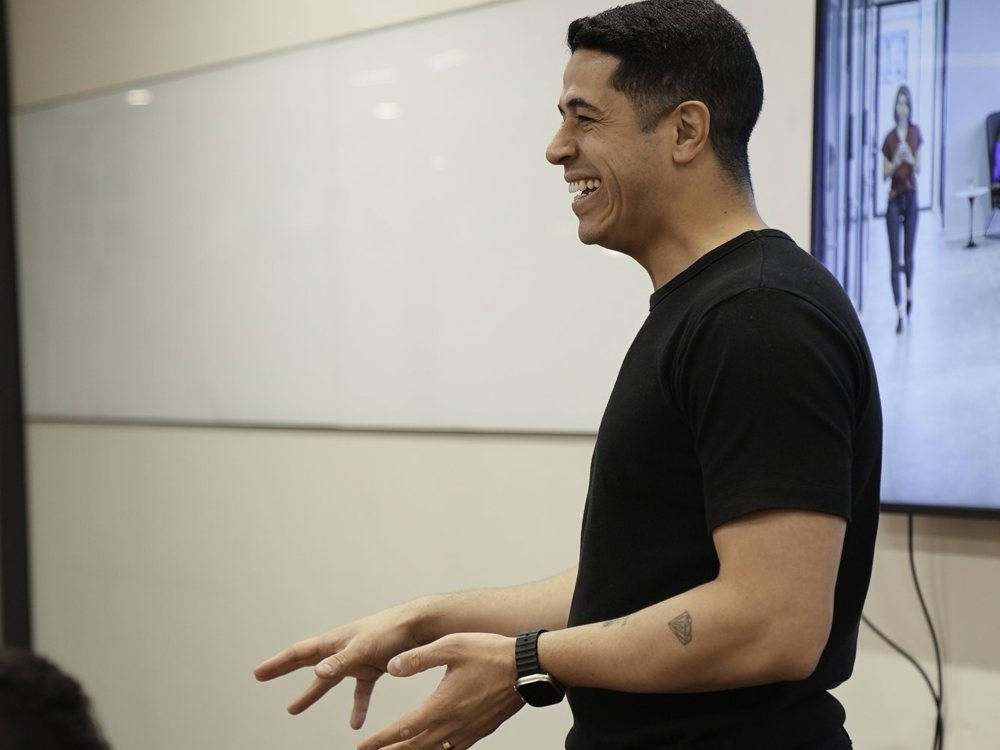
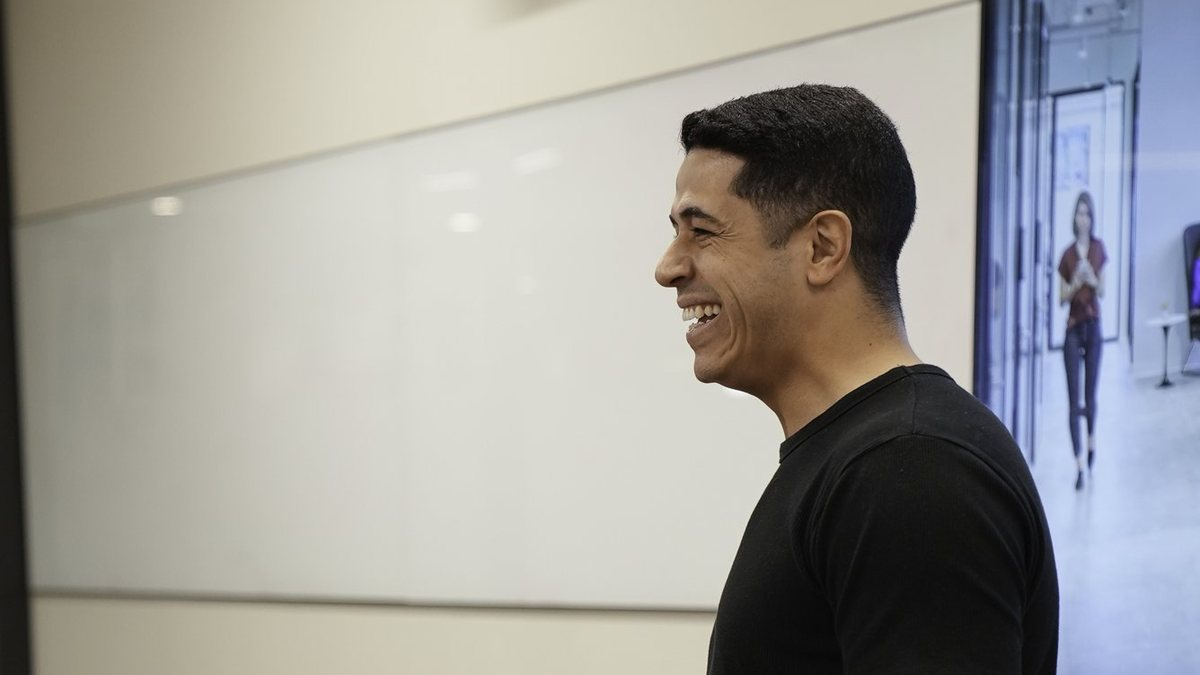
Decks: recorte das fotos do Henrique sem cortar a cabeça e com ele em destaque

diff --git a/apresentacao.html b/apresentacao.html
@@ -159,7 +159,7 @@
   .dcard .idx .pill { font-size: calc(0.95 * var(--u)); padding: calc(0.3 * var(--u)) calc(0.7 * var(--u)); font-weight: 600; letter-spacing: 0.04em; }
   .stackall .dcard .idx .pill { font-size: calc(0.72 * var(--u)); padding: calc(0.2 * var(--u)) calc(0.45 * var(--u)); }
   .dcard.has-img { padding-top: 0; grid-template-rows: minmax(0, 1fr) auto auto auto; }
-  .dcard .cimg { margin: 0 calc(-1.4 * var(--u)) calc(0.4 * var(--u)); min-height: 0; background: var(--navy-800) center / cover no-repeat; border-bottom: 1px solid var(--hair-gold); }
+  .dcard .cimg { margin: 0 calc(-1.4 * var(--u)) calc(0.4 * var(--u)); min-height: 0; background: var(--navy-800) center 22% / cover no-repeat; border-bottom: 1px solid var(--hair-gold); }
   .cards:has(.has-img) { max-height: 62cqh; height: 62cqh; }
   .dcard.has-img .t { align-self: start; }
   .cards:has(.has-img) .dcard .t { font-size: calc(1.25 * var(--u)); }
@@ -167,7 +167,7 @@
   .stackall .dcard .cimg { display: none; }
   .traj { display: grid; grid-template-columns: repeat(5, 1fr); gap: calc(1.2 * var(--u)); }
   .traj .tj { display: grid; gap: calc(0.5 * var(--u)); align-content: start; }
-  .traj .ph { height: 40cqh; border-radius: var(--radius); background: var(--navy-800) center / cover no-repeat; border: 1px solid var(--hair-gold); }
+  .traj .ph { aspect-ratio: 1 / 1; width: 100%; max-height: 44cqh; border-radius: var(--radius); background: var(--navy-800) center top / cover no-repeat; border: 1px solid var(--hair-gold); }
   .traj .k { font-family: var(--font-mono); font-size: calc(0.62 * var(--u)); letter-spacing: 0.2em; text-transform: uppercase; color: var(--gold-400); margin-top: calc(0.5 * var(--u)); }
   .traj .t { font-family: var(--font-display); font-size: calc(1.3 * var(--u)); font-weight: 600; line-height: 1.12; }
   .traj p { color: var(--mist); font-size: calc(0.85 * var(--u)); line-height: 1.4; margin: 0; }
